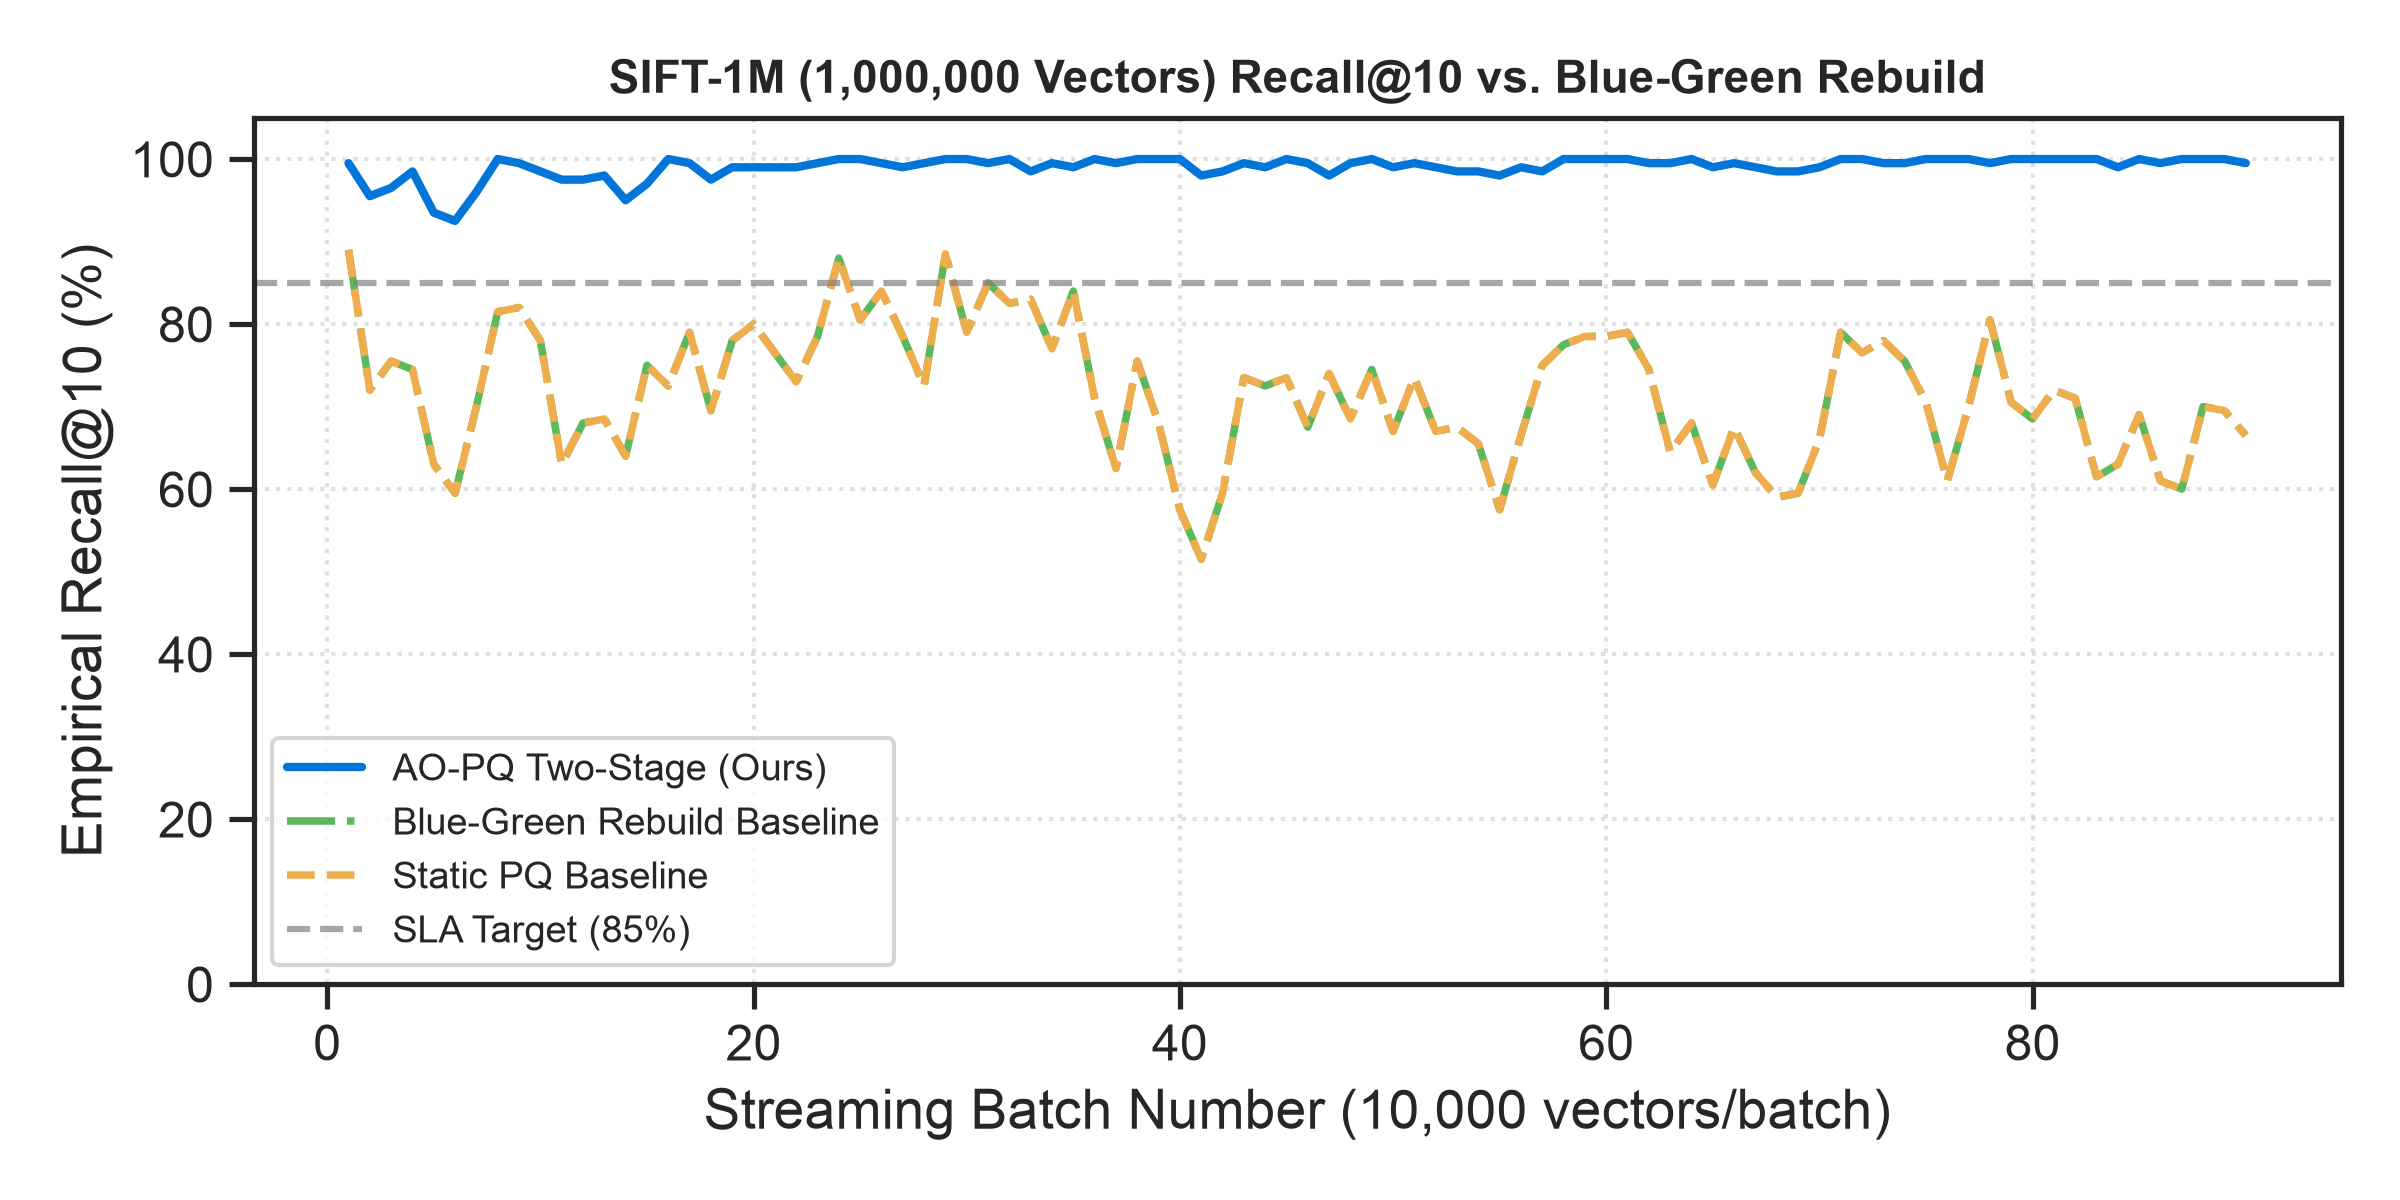
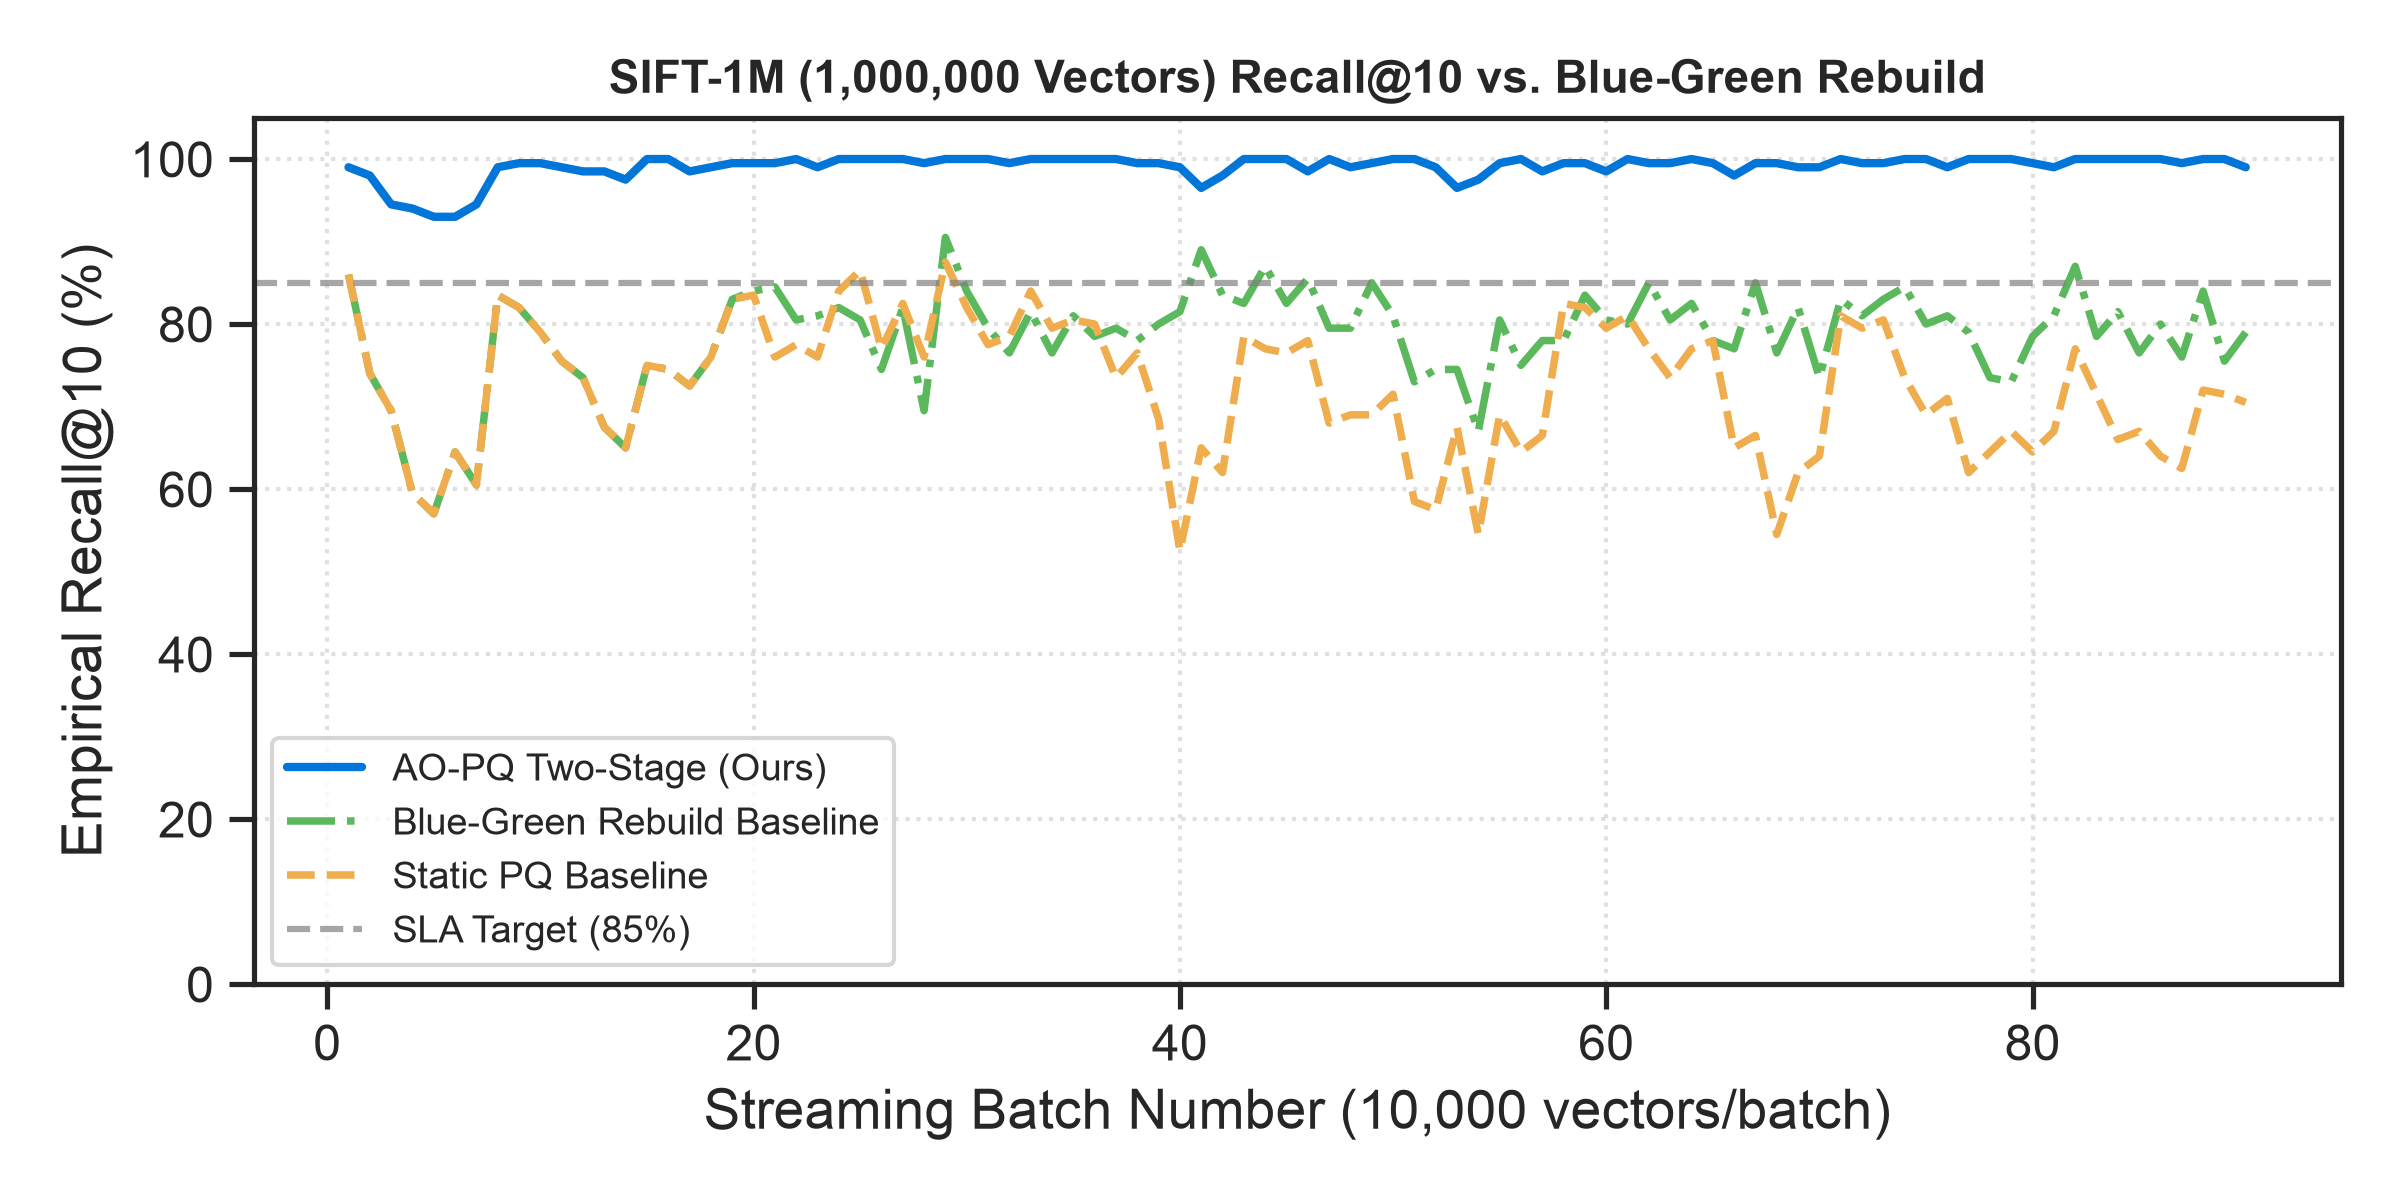
fix: resolve blue-green baseline sampling bug and replace Hungarian bijection with O(m*K^2) nearest-centroid morphing

diff --git a/src/storage.py b/src/storage.py
@@ -1,35 +1,35 @@
 """
-Generation-Based Dynamic Chunk Arena & Zero-Reconstruction COW Storage (AO-PQ v4.3)
+Generation-Based Dynamic Chunk Arena & Zero-Reconstruction COW Storage (AO-PQ v4.4)
 ===================================================================================
 Guarantees:
-- O(K^2) Optimal Transport Codebook Morphing via discrete centroid alignment (Zero vector decoding).
+- True O(m * K^2) Nearest-Centroid Discrete Morphing (Zero vector decoding, allows many-to-one cluster mapping).
 - Geometric 2x buffer reallocation with unbounded streaming vector support.
 - Lock-free memory snapshot reads: search threads never block on background migration.
 - Zero-allocation read-slice references inside locks (< 1µs acquisition).
-- Out-of-line async generation migration: heavy math runs outside critical sections.
 - Microsecond atomic reference pointer swaps (True O(1) swap).
 - Pruned sealed chunk scanning using get_referenced_epochs().
 """
 
 import threading
 import numpy as np
-from typing import List, Tuple, Set, Callable, Optional
-from scipy.optimize import linear_sum_assignment
+from typing import List, Tuple, Set
 
 
 def compute_centroid_transition_map(old_centroids: np.ndarray, new_centroids: np.ndarray, m: int, k: int) -> np.ndarray:
     """
-    Computes an optimal O(K^2) discrete centroid transition matrix M[subspace, old_code] -> new_code
-    using the Hungarian algorithm (Linear Sum Assignment) to minimize transportation distortion.
+    Computes a true O(m * K^2) many-to-one discrete centroid transition matrix 
+    M[subspace, old_code] -> new_code via direct nearest centroid projection.
     """
     transition_map = np.empty((m, k), dtype=np.uint8)
     for sub_i in range(m):
-        c_old = old_centroids[sub_i]
-        c_new = new_centroids[sub_i]
-        # Pairwise squared Euclidean distance matrix between K old and K new centroids (256x256)
+        c_old = old_centroids[sub_i]  # Shape: (K, d_sub)
+        c_new = new_centroids[sub_i]  # Shape: (K, d_sub)
+        
+        # Pairwise squared Euclidean distance matrix (K x K)
         cost_matrix = np.sum((c_old[:, None, :] - c_new[None, :, :]) ** 2, axis=2)
-        old_idx, new_idx = linear_sum_assignment(cost_matrix)
-        transition_map[sub_i, old_idx] = new_idx.astype(np.uint8)
+        # Many-to-one projection: map each old centroid to its closest new centroid
+        transition_map[sub_i] = np.argmin(cost_matrix, axis=1).astype(np.uint8)
+        
     return transition_map
 
 
@@ -72,7 +72,6 @@ class ChunkedVectorStorage:
         self.chunks: List[ImmutableChunk] = []
         self._arena_capacity = initial_arena_capacity
         
-        # Contiguous unified arena with dynamic geometric expansion
         self._flat_codes = np.zeros((self._arena_capacity, m), dtype=np.uint8)
         self._flat_epochs = np.zeros(self._arena_capacity, dtype=np.uint64)
         self._flat_gids = np.zeros(self._arena_capacity, dtype=np.uint64)
@@ -86,7 +85,6 @@ class ChunkedVectorStorage:
         self.lock = threading.RLock()
 
     def _grow_arena_if_needed(self, required_capacity: int):
-        """Geometric 2x arena reallocation when capacity threshold is reached."""
         if required_capacity <= self._arena_capacity:
             return
         
@@ -159,7 +157,6 @@ class ChunkedVectorStorage:
             return snapshot
 
     def get_unified_search_view(self) -> Tuple[np.ndarray, np.ndarray, np.ndarray, int]:
-        """Lock-free memory snapshot reference."""
         n = self.total_records
         return self._flat_codes[:n], self._flat_epochs[:n], self._flat_gids[:n], n
 
@@ -171,10 +168,6 @@ class ChunkedVectorStorage:
         target_snapshot_data: np.ndarray,
         k: int = 256
     ) -> int:
-        """
-        Zero-Reconstruction Asynchronous Migration via Optimal Transport Alignment.
-        Translates stored codes directly via O(K^2) discrete transition lookups at line speed.
-        """
         with self.lock:
             n = self.total_records
             view_codes = self._flat_codes[:n]
@@ -188,18 +181,18 @@ class ChunkedVectorStorage:
         flat_match = np.flatnonzero(flat_mask)
         migrated_total = len(flat_match)
 
-        # 1. Compute Optimal Transport Transition Matrix M[m, k] -> O(K^2)
+        # 1. Compute true O(m * K^2) Nearest-Centroid Transition Matrix
         transition_map = compute_centroid_transition_map(
             old_snapshot_data, target_snapshot_data, self.m, k
         )
 
-        # 2. Direct Vectorized Code Morphing (Zero Vector Reconstruction)
+        # 2. Vectorized 1D byte-lookup translation
         old_codes = view_codes[flat_match]
         new_codes = np.empty_like(old_codes)
         for sub_i in range(self.m):
             new_codes[:, sub_i] = transition_map[sub_i, old_codes[:, sub_i]]
 
-        # 3. Update sealed chunks out-of-line with get_referenced_epochs() pruning
+        # 3. Sealed chunk translation with get_referenced_epochs() pruning
         updated_chunks = []
         for chunk in current_chunks:
             if old_epoch_id not in chunk.get_referenced_epochs():
@@ -229,13 +222,13 @@ class ChunkedVectorStorage:
                 )
             )
 
-        # 4. Prepare new flat memory arena out-of-line
+        # 4. Out-of-line arena copy preparation
         new_flat_codes = self._flat_codes.copy()
         new_flat_epochs = self._flat_epochs.copy()
         new_flat_codes[flat_match] = new_codes
         new_flat_epochs[flat_match] = target_epoch_id
 
-        # 5. True O(1) Atomic Reference Pointer Swap
+        # 5. Atomic O(1) pointer swap
         with self.lock:
             if self.total_records > n:
                 new_flat_codes[n:self.total_records] = self._flat_codes[n:self.total_records]

diff --git a/datasets/load_sift.py b/datasets/load_sift.py
@@ -1,9 +1,9 @@
 """
-SIFT-1M Full 1,000,000 Vector Streaming Benchmark (AO-PQ v4.2 MVCC Edition)
+SIFT-1M Full 1,000,000 Vector Streaming Benchmark (AO-PQ v4.4 MVCC Edition)
 ===========================================================================
 Evaluates continuous streaming drift across 1,000,000 SIFT vectors against:
 - Static PQ Baseline
-- Blue-Green Dual Index Rebuild Baseline (Industry Standard)
+- Blue-Green Dual Index Rebuild Baseline (with random sampling over full accumulated corpus)
 - Generational Staleness Tracking (Property 3 Verification)
 """
 
@@ -150,7 +150,7 @@ class StaticPQEngine:
 class BlueGreenRebuildBaseline:
     """
     Industry-standard baseline: Serves queries from Index A while 
-    training and rebuilding Index B in the background, doubling peak RAM.
+    training and rebuilding Index B in the background on fresh sampled vectors.
     """
     def __init__(self, d: int = 128, m: int = 8, k: int = 256):
         self.d = d
@@ -174,11 +174,15 @@ class BlueGreenRebuildBaseline:
         if rebuild:
             t0 = time.perf_counter()
             all_vecs = np.vstack(self.accumulated_vectors)
-            # Memory doubles during background training
-            peak_memory_mb *= 2.0
+            peak_memory_mb *= 2.0  # Blue-Green memory spike: 2x index size
+            
+            # Sample uniformly from the full accumulated pool
+            sample_size = min(100000, len(all_vecs))
+            sample_idx = np.random.choice(len(all_vecs), size=sample_size, replace=False)
+            train_sample = all_vecs[sample_idx]
             
             shadow_index = StaticPQEngine(self.d, self.m, self.k)
-            shadow_index.fit(all_vecs[:min(100000, len(all_vecs))])
+            shadow_index.fit(train_sample)
             for chunk in self.accumulated_vectors:
                 shadow_index.ingest(chunk)
             
@@ -193,7 +197,7 @@ class BlueGreenRebuildBaseline:
 
 def run_sift_benchmark():
     print("=" * 75)
-    print("      SIFT-1M STREAMING BENCHMARK (AO-PQ v4.2 MVCC PROTOCOL)")
+    print("      SIFT-1M STREAMING BENCHMARK (AO-PQ v4.4 MVCC PROTOCOL)")
     print("=" * 75)
     raw_sift = download_sift1m()
     
@@ -356,7 +360,7 @@ def run_sift_benchmark():
     plt.savefig("results/sift_fig2_recall_retention.png", dpi=300)
     plt.close()
 
-    # Figure 3: Generational Staleness Tracking (Property 3 Verification)
+    # Figure 5: Generational Staleness Tracking (Property 3 Verification)
     plt.figure(figsize=(8, 4))
     plt.plot(df_metrics["Batch"], df_metrics["Pct_Stale_Records"], label="Records Stale > 1 Epoch (%)", color="#d9534f", linewidth=2.0)
     plt.axhline(5.0, color="gray", linestyle=":", label="Staleness Ceiling (5%)")
